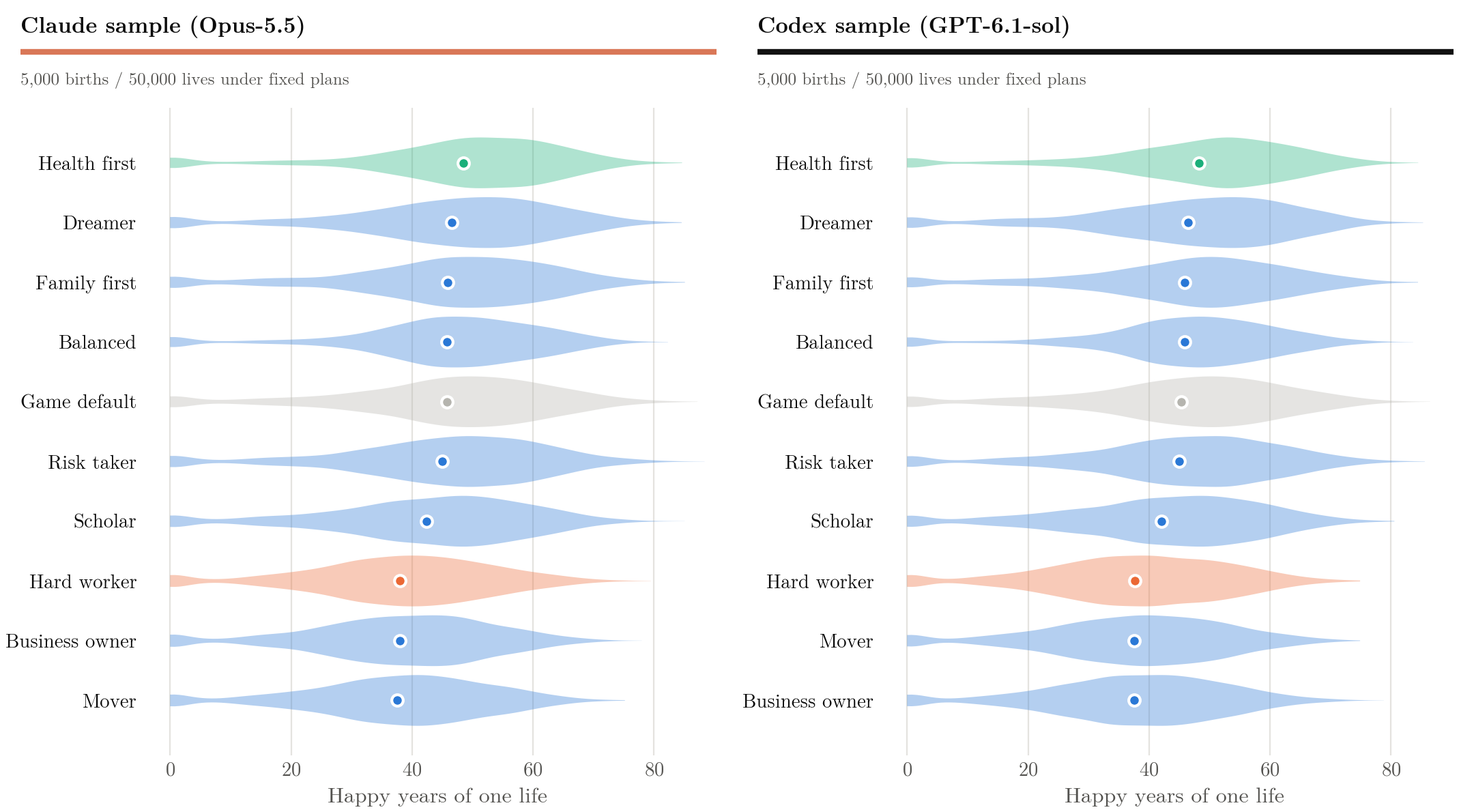
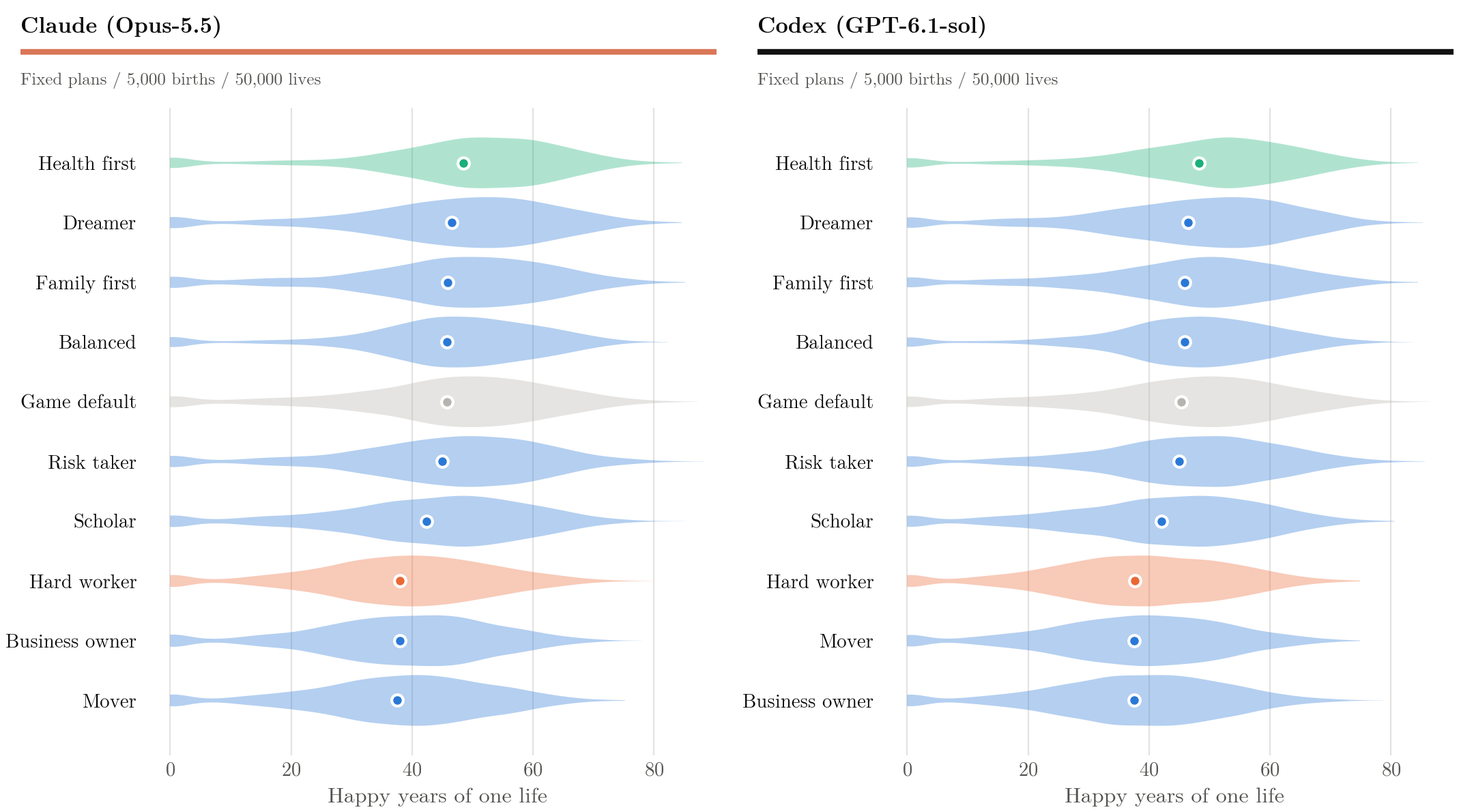
Show both models' results across the article
Every figure uses the same model headers and sample counts. The plan table
puts the Claude and Codex rows for each plan together, and the main findings
give both samples' numbers.

diff --git a/testbed/_posts/2026-10-27-nature-vs-nurture.html b/testbed/_posts/2026-10-27-nature-vs-nurture.html
@@ -3,23 +3,22 @@ title: "Nature vs Nurture"
 layout: post
 hashtag: "#simulation #monte-carlo #statistics #life"
 comment: true
-splitter: 2
+splitter: 3
 featured: false
 inprogress: true
 thumbnail: /img/nature-vs-nurture/nature-vs-nurture-thumbnail.png
 excerpt: >-
   This project uses the browser game 1 in 8 Billion to examine how birth conditions, talent,
-  choices and random events affect a simulated life. The two samples contain 300,000
-  main-experiment lives. Each tests 5,000 births under all ten fixed plans (50,000 paths), plus
-  50,000 lifelong random plans and 50,000 lives with choices drawn again at each decision.
-  Claude (Opus-5.5) prepared the original study, Codex (GPT-6.1-sol) ran a matched sample,
-  and Codex later expanded both fixed-plan samples using the same code. Every comparison
-  places the samples side by side. Happy years combines lifespan with the game’s happiness
-  score. In the expanded Claude sample, birth accounts for 27.8% of variation, the
-  plan 5.3% and talent 1.4%. Separate tests of later random events still find about two
-  thirds. Complete-sample birth-group averages differ by about 20 happy years. An earlier
-  independent Codex study used 58,636 lives and a different design; it remains in its own
-  section.
+  choices and random events affect a simulated life. The study contains 300,000
+  main-experiment lives, split equally between Claude (Opus-5.5) and Codex (GPT-6.1-sol)
+  samples using shared code. Each tests 5,000 births under all ten fixed plans (50,000
+  paths), plus 50,000 lifelong random plans and 50,000 lives with choices drawn again at
+  each decision. Figures and tables place the samples side by side. Happy years combines
+  lifespan with the game's happiness score. Birth accounts for 27.8% (Claude) and 26.8%
+  (Codex) of variation, plans for 5.3% (Claude) and 5.7% (Codex), and talent for 1.4%
+  (Claude) and 1.8% (Codex). Separate luck tests find about two thirds, and full-sample
+  birth-group averages differ by about 20 happy years. An earlier independent Codex study
+  used 58,636 lives and remains in its own section.
 related: []
 ---
 
@@ -160,6 +159,7 @@ table.nvn tr.ref td { background: #f4f4f2; }  /* the game default, the row every
 <img alt="Birthday happiness and happy-year area for one median example in each sample" onerror="handle_image_error(this)" src="/img/nature-vs-nurture/nature-vs-nurture-2.png" width="100%"/>
 <figcaption>Happy years for the median game-default example among 5,000 births in each sample. The shaded area adds birthday happiness divided by 100. These are illustrative lives, separate from the full-sample comparisons.</figcaption>
 </figure>
+
 <br/>
 <div class="nvn-scroll"><table class="nvn">
 <tr><th>Life</th><th class="num">Years lived</th><th class="num">Average happiness</th><th class="num">Happy years</th></tr>
@@ -237,15 +237,15 @@ table.nvn tr.ref td { background: #f4f4f2; }  /* the game default, the row every
     <br/><br/>
     The original 220,000 main-experiment lives were retained, with 40,000 fixed-plan lives added to each sample. All birthday totals matched the raw records; there were no failed additions or outside requests, and the old inputs were unchanged.
     India represents 17.1% of the 5,000 fixed-plan births in the Claude sample and 18.3% in the Codex sample, against the game’s 17.6% weight.
-    Unless a Codex value is named, the text and plan table use the expanded Claude sample.
 </div><br/><br/>
 <h3>Results</h3>
-<div class="article">The paired figures place the Claude sample on the left and the Codex sample on the right. Shared axes are used where the measurements match. Ranked outcome plots may have different row orders in the two samples.
+<div class="article">Every comparison places Claude on the left and Codex on the right. Shared axes are used where measurements match; ranked plots may select different rows in the two samples.
     <figure data-runs="claude codex" data-study="expanded" id="nvn-comparison-20">
 <img alt="Happy-year distributions for all 300,000 main-experiment lives, with every fixed plan included" onerror="handle_image_error(this)" src="/img/nature-vs-nurture/nature-vs-nurture-20.png" width="100%"/>
 <figcaption>All 150,000 main-experiment lives per sample, including all ten fixed plans and both complete random-policy experiments. Each row shows a birth group’s distribution, with a mark at its mean. The gap describes this experiment’s mix of plans.</figcaption>
 </figure>
-    Across the complete experiment mix, the high-income-country group averages 54.4 happy years in the Claude sample, compared with 34.1 in Sub-Saharan Africa.
+    Across all three experiments, the high-income-country group averages 54.4 (Claude) and 54.1 (Codex) happy years.
+    The Sub-Saharan Africa averages are 34.1 (Claude) and 34.2 (Codex).
     The corresponding gaps are 20.3 and 19.9 happy years in the two samples.
     Birth countries, families and plans all vary within these groups, so this is not an estimate of country alone.
     <br/><br/>
@@ -255,75 +255,86 @@ table.nvn tr.ref td { background: #f4f4f2; }  /* the game default, the row every
 <img alt="Mean happy years for all ten plans in the two expanded samples" onerror="handle_image_error(this)" src="/img/nature-vs-nurture/nature-vs-nurture-3.png" width="100%"/>
 <figcaption>Mean happy years for all ten plans on the same 5,000 births per sample, with 95% intervals. Orange circles identify the Claude sample and black squares the Codex sample. Both panels use shared rows and axes; gray marks and dashed lines show the game-default mean.</figcaption>
 </figure>
-<div class="nvn-run-label">Expanded Claude sample: 5,000 births under every plan</div><div class="nvn-scroll"><table class="nvn"><tr><th>Plan</th><th class="num">Happy years</th><th class="num">vs game default</th><th class="num">p (Holm)</th><th class="num">Lifetime income (PPP $)</th><th class="num">Age at death</th></tr><tr><td>Health first</td><td class="num">\( 48.46 \)</td><td class="num">\( +2.71 \)</td><td class="num">\( &lt;0.001 \)</td><td class="num">\( 605{,}736 \)</td><td class="num">\( 75.8 \)</td></tr><tr><td>Dreamer</td><td class="num">\( 46.51 \)</td><td class="num">\( +0.76 \)</td><td class="num">\( 0.0015 \)</td><td class="num">\( 592{,}812 \)</td><td class="num">\( 70.1 \)</td></tr><tr><td>Family first</td><td class="num">\( 45.90 \)</td><td class="num">\( +0.15 \)</td><td class="num">\( 0.886 \)</td><td class="num">\( 514{,}114 \)</td><td class="num">\( 69.4 \)</td></tr><tr><td>Balanced</td><td class="num">\( 45.82 \)</td><td class="num">\( +0.07 \)</td><td class="num">\( 0.886 \)</td><td class="num">\( 619{,}548 \)</td><td class="num">\( 75.0 \)</td></tr><tr class="ref"><td>Game default</td><td class="num">\( 45.75 \)</td><td class="num">(control)</td><td class="num"></td><td class="num">\( 545{,}721 \)</td><td class="num">\( 69.7 \)</td></tr><tr><td>Risk taker</td><td class="num">\( 45.01 \)</td><td class="num">\( -0.74 \)</td><td class="num">\( 0.00128 \)</td><td class="num">\( 543{,}771 \)</td><td class="num">\( 68.1 \)</td></tr><tr><td>Scholar</td><td class="num">\( 42.43 \)</td><td class="num">\( -3.33 \)</td><td class="num">\( &lt;0.001 \)</td><td class="num">\( 808{,}349 \)</td><td class="num">\( 70.6 \)</td></tr><tr><td>Hard worker</td><td class="num">\( 37.99 \)</td><td class="num">\( -7.76 \)</td><td class="num">\( &lt;0.001 \)</td><td class="num">\( 818{,}516 \)</td><td class="num">\( 68.5 \)</td></tr><tr><td>Business owner</td><td class="num">\( 37.97 \)</td><td class="num">\( -7.79 \)</td><td class="num">\( &lt;0.001 \)</td><td class="num">\( 719{,}308 \)</td><td class="num">\( 68.8 \)</td></tr><tr><td>Mover</td><td class="num">\( 37.58 \)</td><td class="num">\( -8.17 \)</td><td class="num">\( &lt;0.001 \)</td><td class="num">\( 751{,}663 \)</td><td class="num">\( 68.1 \)</td></tr></table></div>
-    Health first adds 2.7 happy years and raises mean lifespan to 75.8, compared with 69.7 under the default.
-    Dreamer adds 0.76 happy years (Holm p = 0.0015). Both positive differences pass the Holm threshold in the Claude sample.
+<div class="nvn-run-label">Fixed plans: 5,000 births and 50,000 lives per model</div><div class="nvn-scroll"><table class="nvn" id="nvn-plan-table"><thead><tr><th>Plan</th><th>Sample</th><th class="num">Happy<br/>years</th><th class="num">vs game<br/>default</th><th class="num">p (Holm)</th><th class="num">Lifetime income<br/>(PPP $)</th><th class="num">Age at<br/>death</th></tr></thead><tbody><tr data-model="claude" data-plan="health_first"><td rowspan="2">Health first</td><td>Claude</td><td class="num">\( 48.46 \)</td><td class="num">\( +2.71 \)</td><td class="num">\( &lt;0.001 \)</td><td class="num">\( 605{,}736 \)</td><td class="num">\( 75.8 \)</td></tr><tr data-model="codex" data-plan="health_first"><td>Codex</td><td class="num">\( 48.28 \)</td><td class="num">\( +2.90 \)</td><td class="num">\( &lt;0.001 \)</td><td class="num">\( 610{,}134 \)</td><td class="num">\( 75.8 \)</td></tr><tr data-model="claude" data-plan="dreamer"><td rowspan="2">Dreamer</td><td>Claude</td><td class="num">\( 46.51 \)</td><td class="num">\( +0.76 \)</td><td class="num">\( 0.0015 \)</td><td class="num">\( 592{,}812 \)</td><td class="num">\( 70.1 \)</td></tr><tr data-model="codex" data-plan="dreamer"><td>Codex</td><td class="num">\( 46.45 \)</td><td class="num">\( +1.08 \)</td><td class="num">\( &lt;0.001 \)</td><td class="num">\( 550{,}892 \)</td><td class="num">\( 70.4 \)</td></tr><tr data-model="claude" data-plan="family_first"><td rowspan="2">Family first</td><td>Claude</td><td class="num">\( 45.90 \)</td><td class="num">\( +0.15 \)</td><td class="num">\( 0.886 \)</td><td class="num">\( 514{,}114 \)</td><td class="num">\( 69.4 \)</td></tr><tr data-model="codex" data-plan="family_first"><td>Codex</td><td class="num">\( 45.92 \)</td><td class="num">\( +0.54 \)</td><td class="num">\( 0.0191 \)</td><td class="num">\( 498{,}524 \)</td><td class="num">\( 69.7 \)</td></tr><tr data-model="claude" data-plan="balanced"><td rowspan="2">Balanced</td><td>Claude</td><td class="num">\( 45.82 \)</td><td class="num">\( +0.07 \)</td><td class="num">\( 0.886 \)</td><td class="num">\( 619{,}548 \)</td><td class="num">\( 75.0 \)</td></tr><tr data-model="codex" data-plan="balanced"><td>Codex</td><td class="num">\( 45.90 \)</td><td class="num">\( +0.52 \)</td><td class="num">\( 0.0316 \)</td><td class="num">\( 608{,}642 \)</td><td class="num">\( 75.3 \)</td></tr><tr class="ref" data-model="claude" data-plan="game_default"><td rowspan="2">Game default</td><td>Claude</td><td class="num">\( 45.75 \)</td><td class="num">(control)</td><td class="num"></td><td class="num">\( 545{,}721 \)</td><td class="num">\( 69.7 \)</td></tr><tr class="ref" data-model="codex" data-plan="game_default"><td>Codex</td><td class="num">\( 45.38 \)</td><td class="num">(control)</td><td class="num"></td><td class="num">\( 528{,}732 \)</td><td class="num">\( 69.4 \)</td></tr><tr data-model="claude" data-plan="risk_taker"><td rowspan="2">Risk taker</td><td>Claude</td><td class="num">\( 45.01 \)</td><td class="num">\( -0.74 \)</td><td class="num">\( 0.00128 \)</td><td class="num">\( 543{,}771 \)</td><td class="num">\( 68.1 \)</td></tr><tr data-model="codex" data-plan="risk_taker"><td>Codex</td><td class="num">\( 45.02 \)</td><td class="num">\( -0.36 \)</td><td class="num">\( 0.0815 \)</td><td class="num">\( 530{,}032 \)</td><td class="num">\( 68.2 \)</td></tr><tr data-model="claude" data-plan="scholar"><td rowspan="2">Scholar</td><td>Claude</td><td class="num">\( 42.43 \)</td><td class="num">\( -3.33 \)</td><td class="num">\( &lt;0.001 \)</td><td class="num">\( 808{,}349 \)</td><td class="num">\( 70.6 \)</td></tr><tr data-model="codex" data-plan="scholar"><td>Codex</td><td class="num">\( 42.06 \)</td><td class="num">\( -3.31 \)</td><td class="num">\( &lt;0.001 \)</td><td class="num">\( 779{,}554 \)</td><td class="num">\( 70.4 \)</td></tr><tr data-model="claude" data-plan="hard_worker"><td rowspan="2">Hard worker</td><td>Claude</td><td class="num">\( 37.99 \)</td><td class="num">\( -7.76 \)</td><td class="num">\( &lt;0.001 \)</td><td class="num">\( 818{,}516 \)</td><td class="num">\( 68.5 \)</td></tr><tr data-model="codex" data-plan="hard_worker"><td>Codex</td><td class="num">\( 37.63 \)</td><td class="num">\( -7.75 \)</td><td class="num">\( &lt;0.001 \)</td><td class="num">\( 786{,}525 \)</td><td class="num">\( 67.9 \)</td></tr><tr data-model="claude" data-plan="business_owner"><td rowspan="2">Business owner</td><td>Claude</td><td class="num">\( 37.97 \)</td><td class="num">\( -7.79 \)</td><td class="num">\( &lt;0.001 \)</td><td class="num">\( 719{,}308 \)</td><td class="num">\( 68.8 \)</td></tr><tr data-model="codex" data-plan="business_owner"><td>Codex</td><td class="num">\( 37.49 \)</td><td class="num">\( -7.89 \)</td><td class="num">\( &lt;0.001 \)</td><td class="num">\( 701{,}614 \)</td><td class="num">\( 68.2 \)</td></tr><tr data-model="claude" data-plan="mover"><td rowspan="2">Mover</td><td>Claude</td><td class="num">\( 37.58 \)</td><td class="num">\( -8.17 \)</td><td class="num">\( &lt;0.001 \)</td><td class="num">\( 751{,}663 \)</td><td class="num">\( 68.1 \)</td></tr><tr data-model="codex" data-plan="mover"><td>Codex</td><td class="num">\( 37.54 \)</td><td class="num">\( -7.84 \)</td><td class="num">\( &lt;0.001 \)</td><td class="num">\( 755{,}769 \)</td><td class="num">\( 68.2 \)</td></tr></tbody></table></div>
+    Health first adds 2.7 (Claude) and 2.9 (Codex) happy years.
+    Mean lifespan under Health first is 75.8 (Claude and Codex) years, compared with 69.7 (Claude) and 69.4 (Codex) under the default.
+    Dreamer adds 0.76 (Claude) and 1.08 (Codex) happy years. The table gives both samples' Holm-corrected p-values.
     Very small p-values in the table are displayed as &lt;0.001. In the following plan plots, Health first is green, Hard worker orange and the game default gray.
     <br/><br/>
-    The four highest-income plans have the four lowest happy-year means in the Claude sample.
-    Hard worker and Scholar have the highest mean incomes, while losing 7.8 and 3.3 happy years relative to the default.
+    Work-focused plans combine high income with lower happy-year means in both samples.
+    Hard worker loses 7.8 (Claude and Codex) happy years relative to the default; Scholar loses 3.3 (Claude and Codex).
     <figure data-runs="claude codex" data-study="expanded" id="nvn-comparison-4">
 <img alt="Lifetime income and happy years for all ten plans" onerror="handle_image_error(this)" src="/img/nature-vs-nurture/nature-vs-nurture-4.png" width="100%"/>
 <figcaption>Mean lifetime income and mean happy years for all ten plans, using 5,000 births per plan in each sample.</figcaption>
 </figure>
-    Individual outcomes cover a much wider range than the plan means. The highest and lowest means are 10.9 happy years apart, while the distributions include early deaths and very long lives.
+    Individual outcomes cover a much wider range than the plan means. The highest and lowest plan means are 10.9 (Claude) and 10.8 (Codex) happy years apart, while the distributions include early deaths and very long lives.
     <figure data-runs="claude codex" data-study="expanded" id="nvn-comparison-5">
 <img alt="Happy-year distributions for all ten fixed plans" onerror="handle_image_error(this)" src="/img/nature-vs-nurture/nature-vs-nurture-5.png" width="100%"/>
 <figcaption>Distributions of happy years for all ten plans in the 50,000 fixed-plan lives per sample. Dots show means. Both panels use the same horizontal scale.</figcaption>
 </figure>
-    Paired births also show how a plan changes the outcome for each baby. Health first gives more happy years than the default for 56% of births and fewer for 40%.
-    Hard worker gives fewer happy years for 73%. Equal outcomes include the 3.2% who die before their first birthday.
+    Paired births show how each plan changes the same baby's outcome. Health first gives more happy years than the default for 56% (Claude) and 57% (Codex) of births.
+    It gives fewer for 40% (Claude) and 39% (Codex).
+    Hard worker gives fewer for 73% (Claude) and 71% (Codex). Equal outcomes include lives ending before the first birthday: 3.2% (Claude) and 2.9% (Codex).
     <figure data-runs="claude codex" data-study="expanded" id="nvn-comparison-6">
 <img alt="Plan-minus-default outcomes for paired births" onerror="handle_image_error(this)" src="/img/nature-vs-nurture/nature-vs-nurture-6.png" width="100%"/>
 <figcaption>Changes in happy years for Health first, Family first and Hard worker from the game default, using the same 5,000 births per sample. Each displayed plan is compared with that birth’s own default result.</figcaption>
 </figure>
-    Among the 4,841 births with nonzero happy years under at least one plan, Health first ranks first for 19.1% and Dreamer for 17.2%.
-    Each of the three work-based plans ranks first for fewer than 2%. An equal split would give 10% per plan.
+    Among the 4,841 (Claude) and 4,857 (Codex) births with nonzero happy years under at least one plan, Health first ranks first for 19.1% (Claude) and 19.5% (Codex).
+    Dreamer ranks first for 17.2% (Claude) and 18.2% (Codex). An equal split would give 10% per plan.
     <figure data-runs="claude codex" data-study="expanded" id="nvn-comparison-7">
 <img alt="Share of births for which each plan is best" onerror="handle_image_error(this)" src="/img/nature-vs-nurture/nature-vs-nurture-7.png" width="100%"/>
 <figcaption>Share of births for which each plan produces the most happy years: 4,841 births in the left panel and 4,857 in the right. Births with zero happy years under every plan are excluded, and ties split their share.</figcaption>
 </figure>
     These rankings use one future under each plan. Different random events could change which plan ranks first for the same baby.
     <br/><br/>
-    Health first’s mean gain ranges from 1.6 to 3.6 happy years across family income fifths.
-    Its Sub-Saharan Africa gain is 3.8 happy years.
-    Hard worker reduces happy years relative to each birth’s default path by 8.5 for males and 6.9 for females.
-    Europe &amp; Central Asia still has only 187 births in this sample, producing a wider interval.
+    Across family income fifths, Health first's mean gain ranges from 1.6 to 3.6 happy years in Claude.
+    In Codex, it ranges from 2.1 to 4.1.
+    Its Sub-Saharan Africa gain is 3.8 (Claude) and 3.4 (Codex) happy years.
+    <br/><br/>
+    Hard worker's mean loss is 8.5 (Claude) and 8.9 (Codex) happy years for males.
+    For females, the loss is 6.9 (Claude) and 6.6 (Codex).
+    Europe &amp; Central Asia has only 187 (Claude) and 193 (Codex) births, producing wider intervals.
     <figure data-runs="claude codex" data-study="expanded" id="nvn-comparison-8">
 <img alt="Paired plan effects by family income and region" onerror="handle_image_error(this)" src="/img/nature-vs-nurture/nature-vs-nurture-8.png" width="100%"/>
 <figcaption>Paired changes for Health first and Hard worker by family income fifth and region, using 5,000 births per sample. Intervals are 95%; the two samples remain separate.</figcaption>
 </figure>
-    Longer lives account for part of the Health first gain: 57.8% reach age 80, compared with 38.7% under the game default and 36.8% under Hard worker.
+    Longer lives account for part of the Health first gain. The share reaching age 80 is 57.8% (Claude) and 57.6% (Codex) under Health first.
+    The default shares are 38.7% (Claude) and 37.9% (Codex); Hard worker gives 36.8% (Claude) and 36.0% (Codex).
     <figure data-runs="claude codex" data-study="expanded" id="nvn-comparison-9">
 <img alt="Survival by plan in both expanded samples" onerror="handle_image_error(this)" src="/img/nature-vs-nurture/nature-vs-nurture-9.png" width="100%"/>
 <figcaption>Share of the 5,000 births per sample reaching each age under each plan. Health first is green, Hard worker orange, and the other plans gray.</figcaption>
 </figure>
-    Birth conditions account for 27.8% of variation in the fitted model, the plan 5.3% and talent 1.4%.
-    The remaining 65.5% is unexplained. These shares describe this game and the assigned set of plans.
+    Birth conditions account for 27.8% (Claude) and 26.8% (Codex) of variation.
+    The plan accounts for 5.3% (Claude) and 5.7% (Codex); talent accounts for 1.4% (Claude) and 1.8% (Codex).
+    The unexplained shares are 65.5% (Claude) and 65.8% (Codex). These shares describe the game's fitted model and assigned plans.
     <figure data-runs="claude codex" data-study="expanded" id="nvn-comparison-10">
 <img alt="LMG contributions to variation across all ten fixed plans" onerror="handle_image_error(this)" src="/img/nature-vs-nurture/nature-vs-nurture-10.png" width="100%"/>
 <figcaption>Contributions to variation in happy years across 50,000 fixed-plan lives per sample, estimated with the LMG method. The remainder is variation outside the fitted linear model.</figcaption>
 </figure>
     Unexplained variation may include random events and combinations of birth conditions and plans outside the linear model.
-    The separate luck experiment repeats 200 births five times under the game default. Variation within births accounts for 66.3% of its total variation (95% interval 59.6% to 73.4%).
-    This is close to the expanded model’s 65.5% remainder.
+    The separate luck experiment repeats 200 births five times under the game default. Variation within births accounts for 66.3% (Claude) and 65.1% (Codex) of total variation.
+    The 95% intervals are 59.6% to 73.4% in Claude and 58.5% to 72.7% in Codex.
+    These estimates are close to each sample's unexplained share.
     <figure data-runs="claude codex" data-study="expanded" id="nvn-comparison-11">
 <img alt="Luck-only variation compared with unexplained fixed-plan variation" onerror="handle_image_error(this)" src="/img/nature-vs-nurture/nature-vs-nurture-11.png" width="100%"/>
-<figcaption>Variation from later events in the unchanged luck experiment (200 births × 5 futures), with 95% intervals, next to unexplained variation in the expanded 50,000 fixed-plan lives. The luck experiment is outside the main 300,000-life total.</figcaption>
+<figcaption>Variation from later events in the separate luck experiment (200 births × 5 futures per model), with 95% intervals, next to unexplained variation in 50,000 fixed-plan lives per model. Luck-test futures are outside the main 300,000-life total.</figcaption>
 </figure>
-    Family income and country both contribute to differences associated with birth. Averaging all ten plans within each birth, the richest family fifth has 49.4 happy years and the poorest 37.8.
+    Family income and country both contribute to differences associated with birth. Averaging all ten plans within each birth, the richest family fifth has 49.4 (Claude) and 49.2 (Codex) happy years.
+    The poorest fifth has 37.8 (Claude and Codex).
     Country estimates with fewer births have wider intervals.
     <figure data-runs="claude codex" data-study="expanded" id="nvn-comparison-12">
 <img alt="Family and country averages using all ten plans per birth" onerror="handle_image_error(this)" src="/img/nature-vs-nurture/nature-vs-nurture-12.png" width="100%"/>
 <figcaption>Mean happy years by family income fifth and by the eight countries with the most births. Every birth’s ten plan outcomes are averaged first, so all 50,000 fixed-plan paths per sample contribute. Counts and 95% intervals refer to independent births.</figcaption>
 </figure>
-    The six talent scores together account for 1.4% of variation (95% interval from resampling whole births 1.1% to 2.0%).
-    The individual-score split assigns 1.36% to study and 0.04% to the other five scores together.
+    The six talent scores together account for 1.4% (Claude) and 1.8% (Codex) of variation.
+    The 95% intervals from resampling whole births are 1.1% to 2.0% in Claude and 1.3% to 2.4% in Codex.
+    The individual-score split assigns 1.36% (Claude) and 1.69% (Codex) to study and 0.04% (Claude) and 0.07% (Codex) to the other five scores together.
     <figure data-runs="claude codex" data-study="expanded" id="nvn-comparison-13">
 <img alt="Individual talent-score contributions in the expanded samples" onerror="handle_image_error(this)" src="/img/nature-vs-nurture/nature-vs-nurture-13.png" width="100%"/>
 <figcaption>Contributions of the six talent scores to variation in the 50,000 fixed-plan lives per sample, estimated with the LMG method. These are point estimates, with the combined talent interval reported in the text.</figcaption>
 </figure>
-    Among the 47,268 adult paths under fixed plans, mean happy years rises from 31.1 in the lowest lifetime-income tenth to 60.3 in the highest (Spearman correlation 0.60).
+    Among the 47,268 (Claude) and 47,454 (Codex) adult paths under fixed plans, mean happy years rises from 31.1 to 60.3 across income tenths in Claude and from 31.1 to 59.8 in Codex.
+    The Spearman correlations are 0.60 (Claude) and 0.59 (Codex).
     This describes completed lives and does not isolate the effect of earning more income. Higher-income birth conditions can produce both higher income and more happy years, while a plan focused on work raises income and reduces happiness.
     <figure data-runs="claude codex" data-study="expanded" id="nvn-comparison-14">
 <img alt="Happy years by lifetime-income tenth, with intervals grouped by birth" onerror="handle_image_error(this)" src="/img/nature-vs-nurture/nature-vs-nurture-14.png" width="100%"/>
@@ -352,48 +363,41 @@ table.nvn tr.ref td { background: #f4f4f2; }  /* the game default, the row every
     The Claude happy-year interval includes zero (-0.07 to 0.50), so that sample does not establish a clear female advantage in the underlying mean.
     These comparisons describe female and male groups under the experiment’s mix of plans. They do not change only sex at birth while holding every other condition fixed.
 </div><br/><br/><h3>Which single choices matter</h3>
-<div class="article">
-    The ten fixed plans combine many choices, so they cannot separate the effects of the game's 152 decision types.
-    The two random-plan experiments vary individual answers to estimate these effects.
-    Random answers allow comparisons between choices, but the available options also depend on a person's situation.
-    These differences must be accounted for before estimating an answer's effect.
+<div class="article">The ten fixed plans combine many choices, so they cannot separate the effects of the game's 152 decision types.
+    The two random-plan experiments vary individual answers. Their estimates control for the available options and the person's situation.
     <br/><br/>
-    For example, "sell a rented-out house" is offered only to people who own one, in 0.74% of lives that fall into debt in the Claude sample.
-    Comparing everyone who sells one with everyone who asks family for help gives an apparent gain of 12.3 happy years.
-    However, the first group was already wealthier before the decision.
-    Restricting the comparison to lives offered both answers reduces the estimate to +0.6 (95% CI −2.5 to +3.7).
+    For example, selling a rented-out house is offered only to people who own one, in 0.74% (Claude) and 0.75% (Codex) of lives that fall into debt.
+    Comparing everyone who sells with everyone who asks family gives an apparent gain of 12.3 (Claude) and 13.7 (Codex) happy years.
+    Restricting the comparison to lives offered both answers gives +0.6 (Claude) and +2.2 (Codex).
+    The 95% intervals are -2.5 to 3.7 in Claude and -0.4 to 4.8 in Codex.
     <figure data-runs="claude codex" data-study="expanded" id="nvn-comparison-15">
-<img alt="Decision estimates before and after matching the offered options in both samples" onerror="handle_image_error(this)" src="/img/nature-vs-nurture/nature-vs-nurture-15.png" width="100%"/>
+<img alt="Decision estimates before and after matching offered options in both samples" onerror="handle_image_error(this)" src="/img/nature-vs-nurture/nature-vs-nurture-15.png" width="100%"/>
 <figcaption>Six answers compared before and after restricting the comparison to lives offered both answers, using the unchanged 50,000 lifelong random-plan lives per sample. Percentages refer to lives reaching that decision. The Codex estimate for moving abroad to a child remains unavailable (25 versus 28 eligible lives, below 30 each).</figcaption>
 </figure>
-<br/>
-    Each answer is compared with the most common answer among lives whose first occurrence of that decision offered both options.
-    The matched Codex rerun keeps Claude's comparison answer for the decision types in the six comparisons above and for smoking.
-    Other decision types use the most common answer in their own sample.
-    The regression controls for the offered options, region, family income group, sex and the six talent scores.
-    The initial analysis omitted this control.
-    Most of its largest estimates reflected differences in the available options.
+    Six named comparisons and smoking use the original article's reference answer in both samples.
+    Other decisions use each sample's most common eligible answer, so reference answers and ranked rows can differ.
+    The regressions control for offered options, region, family income fifth, sex and six talent scores. The initial analysis omitted the offered-options control, causing many large estimates to reflect differences in available choices.
     <br/><br/>
-    In the Claude analysis, 64 of 283 comparisons pass the significance threshold after this adjustment in the lifelong-plan experiment and 52 of 272 in the per-decision experiment.
-    Decisions occurring in fewer than 200 lives are excluded: 24 decision types in the first experiment and 22 in the second.
+    In the lifelong-plan experiment, 64 of 283 comparisons pass the significance threshold in Claude and 63 of 288 in Codex.
+    In the per-decision experiment, the counts are 52 of 272 in Claude and 45 of 269 in Codex.
+    Decision types occurring in fewer than 200 lives are excluded: 24 and 24 types in the lifelong-plan experiment, and 22 and 25 in the per-decision experiment, in Claude/Codex order.
     <br/><br/>
-    In the lifelong-plan experiment, the same answer is used whenever a decision recurs.
-    The following estimates describe the Claude sample.
-    The largest estimated effects concern health and employment.
-    Hiding HIV and never starting treatment reduces happy years by 12.1.
-    Repeatedly waiting for a better job, which means never accepting an offered job, reduces the outcome by about 11, while delaying TB treatment reduces it by 6.5.
+    A lifelong random plan repeats the same answer whenever a decision recurs.
+    Hiding HIV instead of starting treatment has an estimated change of -12.1 (Claude) and -10.7 (Codex) happy years.
+    Delaying TB treatment instead of receiving it gives -6.5 (Claude) and -5.4 (Codex).
+    Repeatedly waiting instead of accepting an offered job gives -10.5 (Claude) and -11.1 (Codex) happy years.
     <br/><br/>
-    An adult work focus produces 4.5 fewer happy years than a balance focus, consistent with the results for the three work-based plans.
-    Accepting marriage adds 4.5 happy years.
+    An adult work focus versus balance gives -4.5 (Claude) and -4.1 (Codex) happy years.
+    Accepting marriage instead of refusing it gives +4.5 happy years in Claude.
+    Codex compares accepting marriage with dating first and estimates +3.0. These two estimates have different reference answers.
     <figure data-runs="claude codex" data-study="expanded" id="nvn-comparison-16">
 <img alt="Largest lifelong random-plan estimates in both samples" onerror="handle_image_error(this)" src="/img/nature-vs-nurture/nature-vs-nurture-16.png" width="100%"/>
 <figcaption>The 15 largest lifelong random-plan estimates passing the Benjamini-Hochberg threshold, with 95% intervals. Each row compares the answer before “vs” with the reference answer after it. Each sample ranks its own estimates.</figcaption>
 </figure>
-<br/>
-    The per-decision experiment measures the first answer while later answers are drawn again at random.
-    Its estimated effects are smaller because later choices can reverse an earlier decision.
-    In the Claude sample, hiding HIV at the first decision reduces happy years by 3.3, compared with 12.1 when repeated throughout life.
-    The largest individual effects include staying home instead of accepting a job (−4.7), receiving TB treatment (+4.4), reducing drinking (+3.3) and refusing the first cigarette (+2.8).
+    The per-decision experiment changes only the first answer while later answers are drawn again. Later choices can therefore reverse an earlier decision.
+    Hiding HIV instead of starting treatment gives -3.3 (Claude) and -4.2 (Codex) happy years.
+    Receiving TB treatment instead of waiting gives +4.4 (Claude and Codex); reducing drinking gives +3.3 (Claude and Codex).
+    Refusing the first cigarette gives +2.8 (Claude and Codex).
     <figure data-runs="claude codex" data-study="expanded" id="nvn-comparison-17">
 <img alt="Largest per-decision estimates in both samples" onerror="handle_image_error(this)" src="/img/nature-vs-nurture/nature-vs-nurture-17.png" width="100%"/>
 <figcaption>The 15 largest per-decision estimates passing the Benjamini-Hochberg threshold, with 95% intervals. Answers are drawn again when a decision recurs, and each sample ranks its own estimates.</figcaption>
@@ -401,20 +405,22 @@ table.nvn tr.ref td { background: #f4f4f2; }  /* the game default, the row every
 </div><br/><br/>
 <h3>Life paths</h3>
 <div class="article">Education and marital status provide another way to group completed lives.
-    Among adult paths under fixed plans in the Claude sample, 16.5% never attend school and 23.6% finish university.
-    Their mean happy years differ by 13.2, from 39.0 to 52.1.
+    Among adult paths under fixed plans, 16.5% (Claude) and 16.3% (Codex) never attend school, while 23.6% (Claude) and 23.4% (Codex) finish university.
+    The difference in mean happy years between these groups is 13.2 (Claude) and 13.6 (Codex).
+    The group means are 39.0 and 52.1 in Claude, and 38.4 and 52.0 in Codex.
     <figure data-runs="claude codex" data-study="expanded" id="nvn-comparison-18">
 <img alt="Happy years by schooling and marriage at death in both expanded samples" onerror="handle_image_error(this)" src="/img/nature-vs-nurture/nature-vs-nurture-18.png" width="100%"/>
 <figcaption>Mean happy years by schooling and marital status at death among adult paths under fixed plans. Brackets show shares; 95% intervals keep paths from the same birth together.</figcaption>
 </figure>
     These are descriptions of completed lives, not isolated effects of education or marriage.
-    A path also depends on how long the person lives. Being widowed at death (39.4% of adult paths and 51.4 happy years) largely reflects a long life, while early death leaves less time to marry.
+    A path also depends on how long the person lives. Being widowed at death largely reflects a long life, while early death leaves less time to marry.
+    Widowed paths account for 39.4% (Claude) and 39.0% (Codex) of adult paths, with 51.4 (Claude) and 51.3 (Codex) mean happy years.
 </div><br/><br/>
 <h3>What counts as luck</h3>
 <div class="article">
     Talent can also be treated as part of birth conditions because the game assigns it at birth, together with country and family.
-    Under this grouping in Claude's run, birth conditions account for 29.2% of variation (birth 27.8% + talent 1.4%), events after birth for about two thirds and the life plan for 5.3%.
-    <br/><br/>
+    Under this grouping, birth conditions account for 29.2% (Claude) and 28.6% (Codex) of variation. Events after birth account for about two thirds, and the life-plan shares are 5.3% (Claude) and 5.7% (Codex).
+<br/><br/>
     The interpretation of effort is less direct.
     Rawls argued that "even the willingness to make an effort, to try, and so to be deserving in the ordinary sense is itself dependent upon happy family and social circumstances" (A Theory of Justice, 1971, §17).
     In the game, the player selects a temperament at age two, including an option to continue trying after failure.
@@ -424,7 +430,7 @@ table.nvn tr.ref td { background: #f4f4f2; }  /* the game default, the row every
     <br/><br/>
     This experiment measures how outcomes change when the same baby follows a different assigned plan.
     It does not resolve whether the willingness to make an effort is itself a form of luck.
-    The plan’s 5.3% contribution describes the effect of choices under this design and does not establish who deserves a particular outcome.
+    The plan’s contributions of 5.3% (Claude) and 5.7% (Codex) describe the effect of choices under this design and do not establish who deserves a particular outcome.
     Available choices also depend on the person's situation, as the decision comparisons demonstrate.
 </div><br/><br/>
 <h3>Earlier independent Codex study</h3>
@@ -444,6 +450,7 @@ table.nvn tr.ref td { background: #f4f4f2; }  /* the game default, the row every
 <img alt="Historical comparison of the original Claude and independent Codex studies" onerror="handle_image_error(this)" src="/img/nature-vs-nurture/nature-vs-nurture-19.png" width="100%"/>
 <figcaption>Historical comparison using the original 1,000-birth Claude snapshot and the earlier independent Codex study. These stored estimates are kept as a separate comparison, not relabelled as expanded results. Asterisks mark different measurements.</figcaption>
 </figure>
+
 <br/>
     Two details affect how the intervals are read: Claude's birth contribution has no interval, and Codex's cigarette interval accounts for all six decision tests together.
     The talent measures also differ.
@@ -460,7 +467,7 @@ table.nvn tr.ref td { background: #f4f4f2; }  /* the game default, the row every
 <div class="article">
 <ol>
 <li>The measurements apply to the game's model. Talent, focus and decision effects follow rules chosen by its author, as does the happiness score. Country life satisfaction and income rank already enter the score's target, contributing to the measured birth and income relationships.</li>
-<li>Claude's luck estimate uses 200 births under the game default. Other plans or larger samples could produce values within or beyond its 95% interval of 59.6% to 73.4%. The independent experiment using 2,000 births under study and balance found 69.1%.</li>
+<li>The luck experiment uses 200 births per model under the game default. Its 95% intervals are 59.6% to 73.4% in Claude and 58.5% to 72.7% in Codex. Other plans or larger samples could give different estimates. The earlier independent experiment found 69.1% using 2,000 births under study and balance.</li>
 <li>The fixed-plan birth estimate uses 5,000 distinct births. Its 50,000 paths repeat each birth under ten plans. The birth group combines country, family income and sex; it is not an estimate of genetic inheritance.</li>
 <li>Each baby's plan ranking uses one set of random events per plan. Replaying the birth could change the ranking.</li>
 <li>Choice effects are estimated from the first occurrence of each decision. Rarely available answers have small comparison groups and wide intervals.</li>
